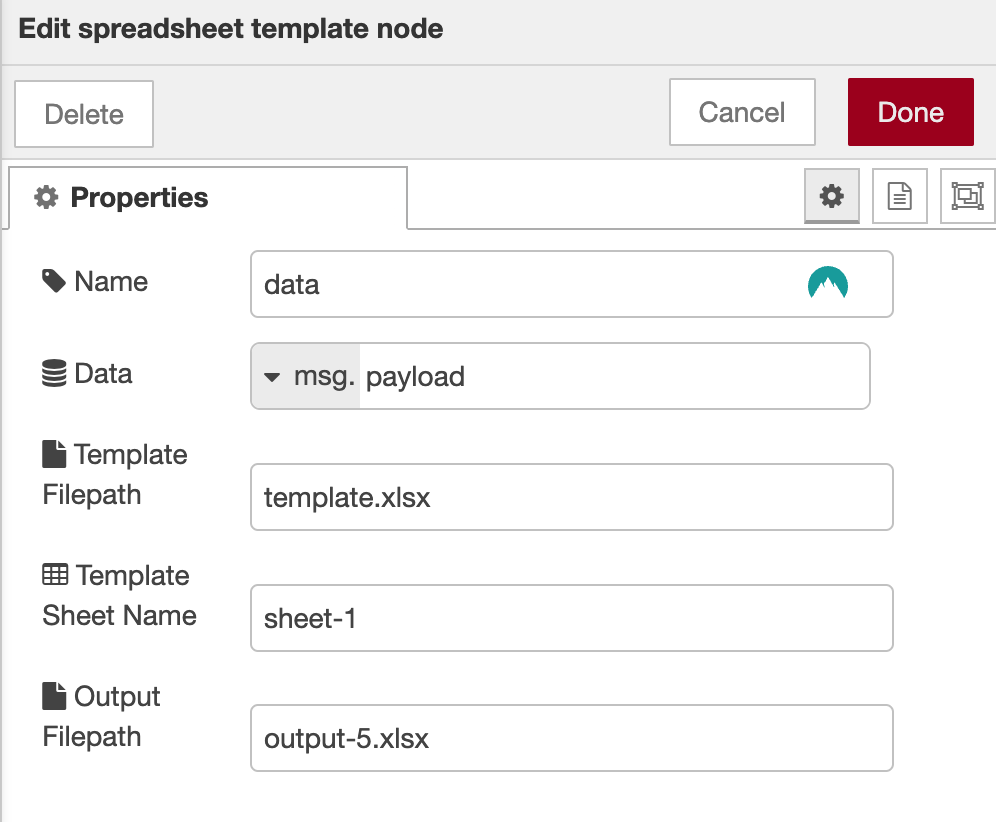
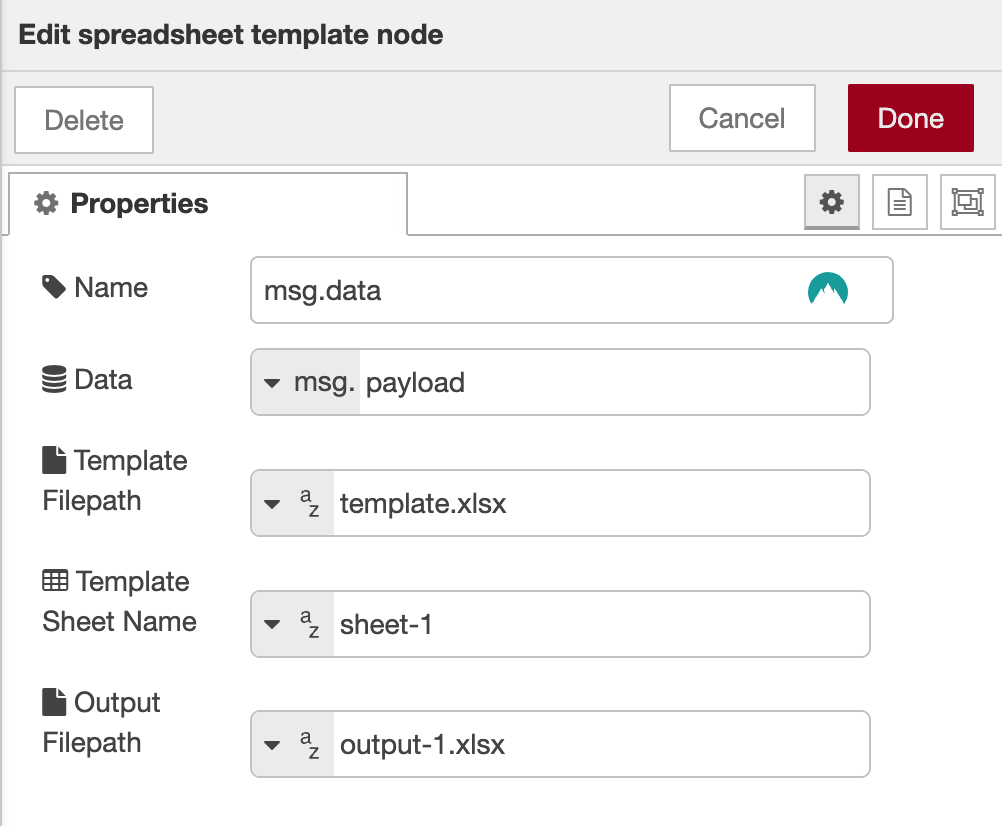
fix: templateFilepath, templateSheetName and outputFilepath are typed inputs again
I accidentally introduced a regression when I added the data input,
which broke the client-side part of the node. This ensures the
form is rendered correctly again

diff --git a/src/nodes/spreadsheet-template/client/index.js b/src/nodes/spreadsheet-template/client/index.js
@@ -65,7 +65,7 @@ export default {
       typeField: '#node-input-dataType',
     });
 
-    $('#node-input-data').typedInput('value', this.defaults.data.value);
+    $('#node-input-data').typedInput('value', this.data);
 
     $('#node-input-templateFilepath').typedInput({
       type: 'msg',
